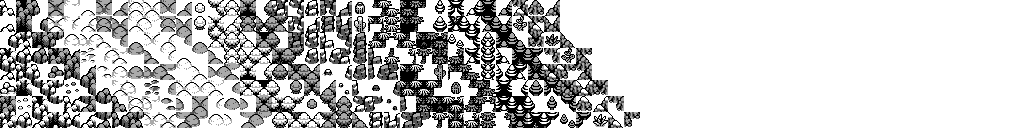
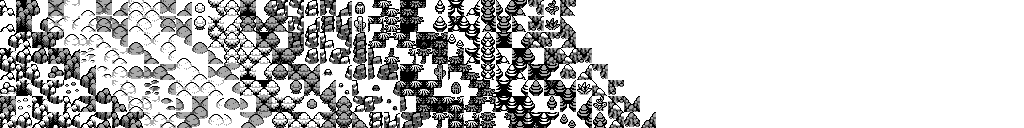
Fixed biome tile set Pine1

Changed region(s): [[0.4688, 0.0, 0.6562, 1.0]]

diff --git a/core/src/net/benmclean/planetgenerator/model/Planet.java b/core/src/net/benmclean/planetgenerator/model/Planet.java
@@ -130,7 +130,7 @@ public class Planet implements Disposable {
                 biomeName = "Bump0";
                 break;
         }
-        biomeName = "Pine0";
+        biomeName = "Pine1";
 
 //        backgroundColor = new Color(15f / 255f, 215f / 255f, 1f, 1f);
         backgroundColor = SColor.randomColorWheel(rng, 2, 2);
